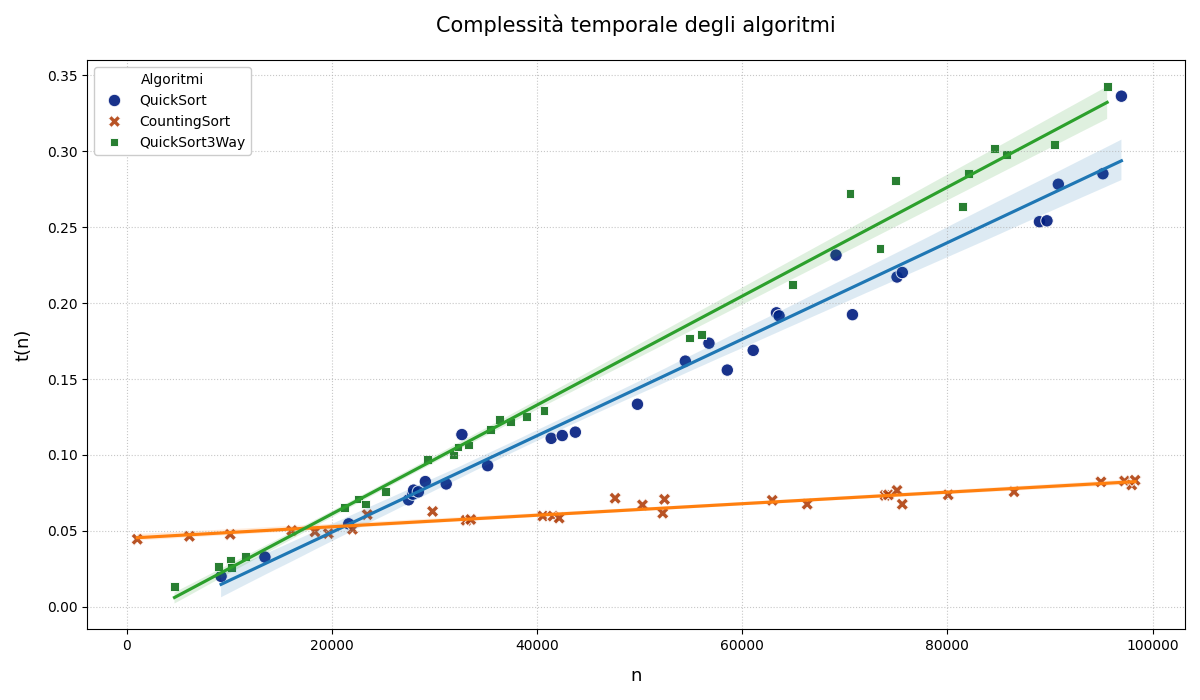
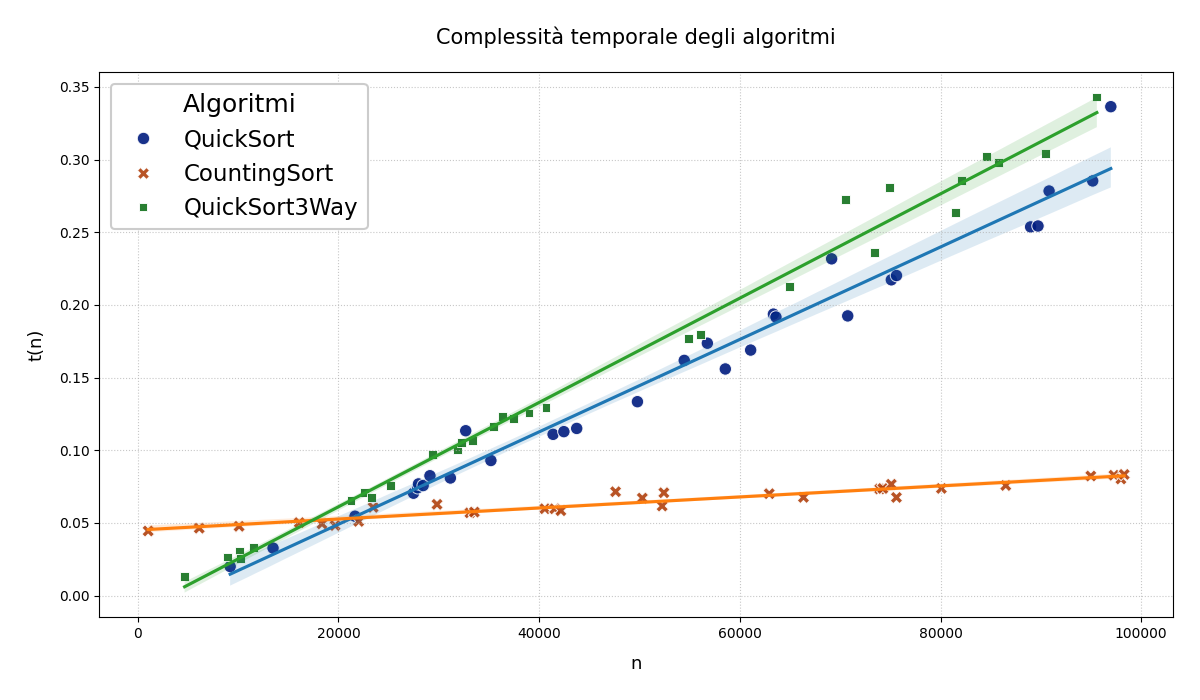
ingrandimento legenda grafico

diff --git a/grafici.py b/grafici.py
@@ -10,7 +10,7 @@ def creaGrafico( df ):
         df (pandas.DataFrame): DataFrame generato da creaDataFrame()
     """
     fig = plt.figure(figsize=(12, 7))
-    
+    #sb.set_style('darkgrid')
     # Prepara i dati in formato long
     df_long = df.melt(id_vars=['Dimensione'], 
                       value_vars=['QuickSort', 'CountingSort', 'QuickSort3Way'],
@@ -42,6 +42,8 @@ def creaGrafico( df ):
                    #line_kws={'linestyle': '--', 'alpha': 0.5, 'label': f'Trend {algoritmo}'},
                    )  # Disabilita intervalli di confidenza
     
+    sb.set_context('talk') #visualizza la legenda più grande
+
     # Formattazione matematica degli assi
     plt.xlabel('n', fontsize=13, labelpad=10)
     plt.ylabel('t(n)', fontsize=13, labelpad=10)
